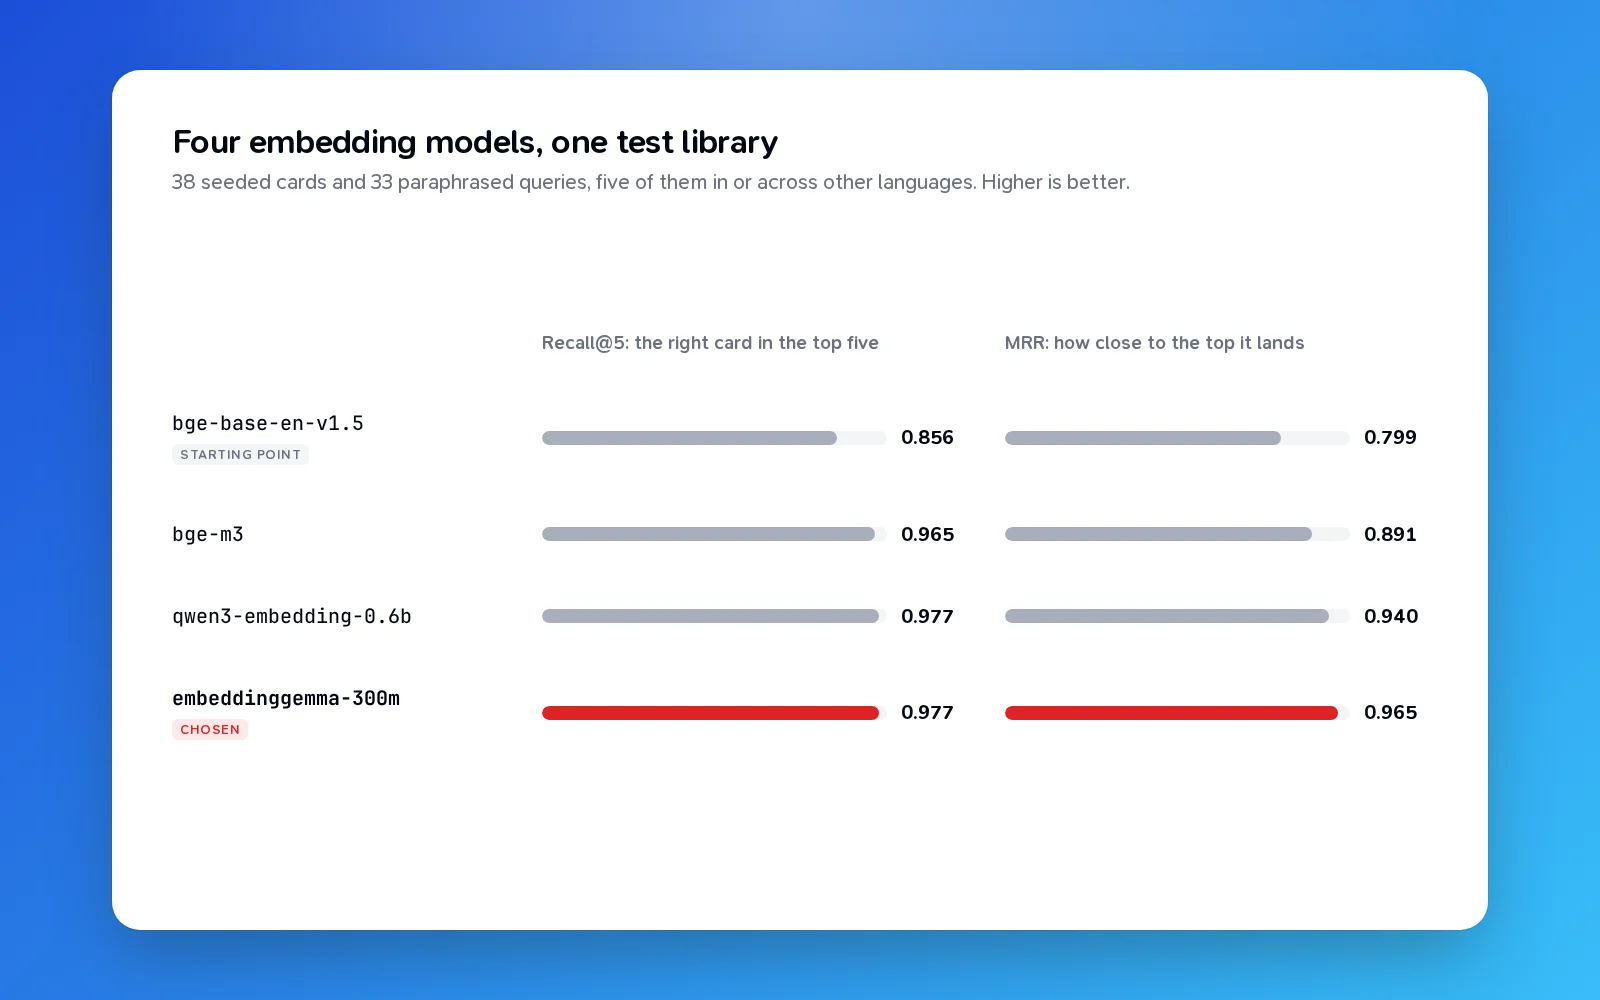
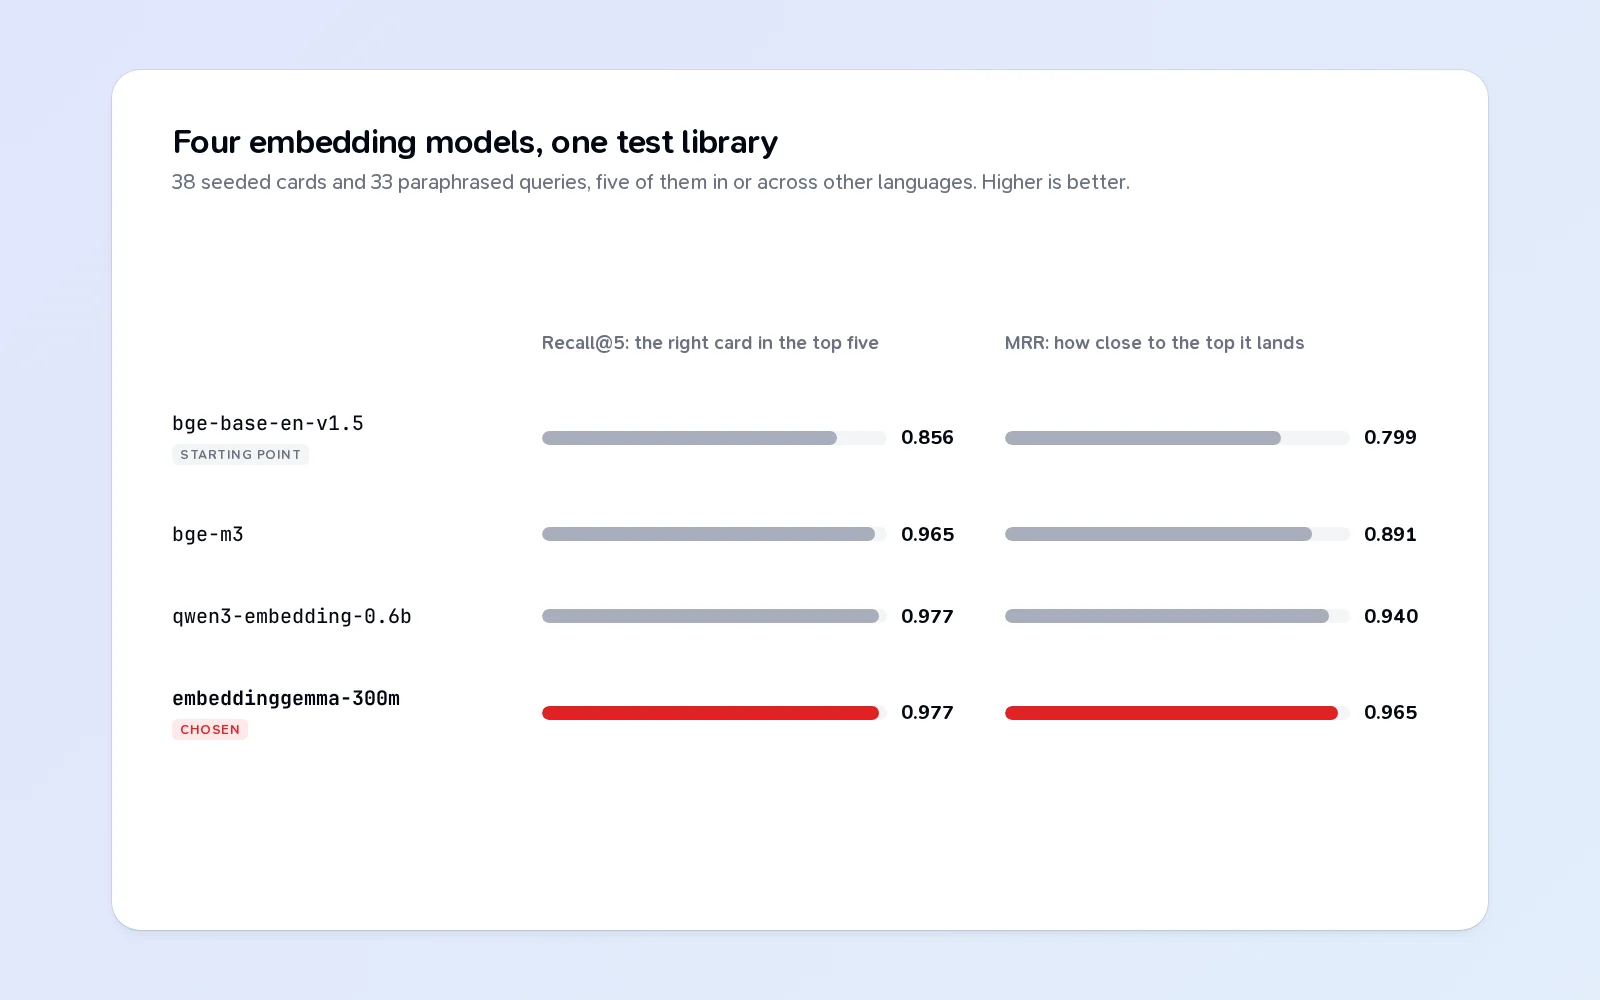
feat(docs): soften blog image backdrops to pastels with crisp shadows
Blog images now sit on pastel two-color gradients instead of saturated
ones, and the window, panel or diagram on them takes a hairline edge and a
short, light shadow instead of the deep soft one. Docs images keep the
meadow and their shadows.

Claude-Session: https://claude.ai/code/session_01WdsWDxRFyEhS7DXkoRzPhP

Changed region(s): [[0.0, 0.0, 1.0, 1.0]]

diff --git a/scripts/docs-assets/shots.ts b/scripts/docs-assets/shots.ts
@@ -29,8 +29,8 @@ interface ShotBase {
   /** The image's alt text, also used as its Markdown alt. */
   alt: string;
   /**
-   * Two colors for a diagonal gradient that replaces the meadow behind the
-   * window. Blog images use one each, so the covers don't all look alike.
+   * Two pastel colors for a diagonal gradient that replaces the meadow behind
+   * the window. Blog images use one each, so the covers don't all look alike.
    */
   backdrop?: [string, string];
   /** Output file name, without extension. */
@@ -309,7 +309,7 @@ SHOTS.push(
 SHOTS.push(
   {
     name: "why-we-built-teak",
-    backdrop: ["#f43f5e", "#fdba74"],
+    backdrop: ["#fde2e4", "#fdeedc"],
     kind: "web",
     layout: "window",
     out: BLOG_IMAGES,
@@ -317,7 +317,7 @@ SHOTS.push(
   },
   {
     name: "rediscovering-what-you-saved",
-    backdrop: ["#8b5cf6", "#f472b6"],
+    backdrop: ["#ebe3fc", "#fbe4f0"],
     kind: "web",
     layout: "window",
     out: BLOG_IMAGES,
@@ -325,7 +325,7 @@ SHOTS.push(
   },
   {
     name: "search-by-meaning",
-    backdrop: ["#2563eb", "#22d3ee"],
+    backdrop: ["#dce8fb", "#d9f2f7"],
     kind: "web",
     layout: "window",
     out: BLOG_IMAGES,
@@ -333,7 +333,7 @@ SHOTS.push(
   },
   {
     name: "embedding-models",
-    backdrop: ["#1d4ed8", "#38bdf8"],
+    backdrop: ["#e1e6fb", "#e2eefb"],
     kind: "mock",
     mock: "blog-embedding-models",
     out: BLOG_IMAGES,
@@ -341,7 +341,7 @@ SHOTS.push(
   },
   {
     name: "build-a-moodboard-in-teak",
-    backdrop: ["#f97316", "#facc15"],
+    backdrop: ["#fde9d6", "#fcf3cb"],
     kind: "web",
     layout: "window",
     out: BLOG_IMAGES,
@@ -349,7 +349,7 @@ SHOTS.push(
   },
   {
     name: "small-features-in-teak",
-    backdrop: ["#10b981", "#a3e635"],
+    backdrop: ["#d9f2e6", "#e9f5d3"],
     kind: "web",
     layout: "window",
     out: BLOG_IMAGES,
@@ -357,7 +357,7 @@ SHOTS.push(
   },
   {
     name: "from-link-to-card",
-    backdrop: ["#4f46e5", "#a855f7"],
+    backdrop: ["#e3e2fb", "#efe3fb"],
     kind: "mock",
     mock: "blog-card-pipeline",
     out: BLOG_IMAGES,
@@ -365,7 +365,7 @@ SHOTS.push(
   },
   {
     name: "one-monorepo-every-platform",
-    backdrop: ["#0d9488", "#60a5fa"],
+    backdrop: ["#d7f0eb", "#dee9fb"],
     kind: "mock",
     mock: "blog-monorepo",
     out: BLOG_IMAGES,
@@ -373,7 +373,7 @@ SHOTS.push(
   },
   {
     name: "teak-for-ai-agents",
-    backdrop: ["#db2777", "#fb923c"],
+    backdrop: ["#fbe1ec", "#fde7d8"],
     kind: "mock",
     mock: "blog-agent-session",
     out: BLOG_IMAGES,
@@ -381,7 +381,7 @@ SHOTS.push(
   },
   {
     name: "self-hosting-teak",
-    backdrop: ["#0ea5e9", "#6366f1"],
+    backdrop: ["#dbeefb", "#e4e4fb"],
     kind: "mock",
     mock: "blog-self-host",
     out: BLOG_IMAGES,
@@ -389,7 +389,7 @@ SHOTS.push(
   },
   {
     name: "building-teak-in-public",
-    backdrop: ["#df2225", "#f59e0b"],
+    backdrop: ["#fbe0de", "#fdecd3"],
     kind: "mock",
     mock: "blog-timeline",
     out: BLOG_IMAGES,

diff --git a/scripts/docs-assets/render.ts b/scripts/docs-assets/render.ts
@@ -176,9 +176,10 @@ if (import.meta.main) {
       ? `<body style="width:${size.width}px;height:${size.height}px;background:#fff"><img class="shot" src="${pathToFileURL(captureFile(shot.name)).href}"></body>`
       : `<body>${shot.kind === "web" ? webHtml(shot) : renderMock(shot.mock, { library })}</body>`;
     const html = path.join(htmlDir, `${shot.name}.html`);
-    // A backdrop swaps the meadow for a gradient, with a soft light from the top.
+    // A backdrop swaps the meadow for a flat pastel gradient, and the window
+    // for a crisp one: a hairline edge and a short, light shadow.
     const backdrop = shot.backdrop
-      ? `<style>body{background:linear-gradient(135deg,${shot.backdrop[0]},${shot.backdrop[1]})}body::before{background:radial-gradient(ellipse at 50% 0%,rgba(255,255,255,.28),rgba(255,255,255,0) 60%)}</style>`
+      ? `<style>body{background:linear-gradient(135deg,${shot.backdrop[0]},${shot.backdrop[1]})}body::before{display:none}.window,.panel,.diagram{box-shadow:0 0 0 1px rgba(15,23,42,.08),0 1px 2px rgba(15,23,42,.06),0 6px 16px -8px rgba(15,23,42,.14)}</style>`
       : "";
     writeFileSync(
       html,

diff --git a/scripts/docs-assets/README.md b/scripts/docs-assets/README.md
@@ -64,7 +64,7 @@ shot's alt text: `![<alt>](./images/<name>.webp)`, or `../images/` from a page
 in a group folder.
 
 Blog posts (`apps/docs/content/blog`) use the same pipeline. A blog shot sets
-`out: BLOG_IMAGES` and its own `backdrop`, a two-color gradient that replaces
-the meadow, and each post opens with its cover, the shot named after the
-post's file. A post can also show a docs image with
-`../docs/images/<name>.webp`. `shots.test.ts` checks both.
+`out: BLOG_IMAGES` and its own `backdrop`, a pastel two-color gradient that
+replaces the meadow and gives the window a crisper shadow. Each post opens
+with its cover, the shot named after the post's file, and can also show a docs
+image with `../docs/images/<name>.webp`. `shots.test.ts` checks both.
